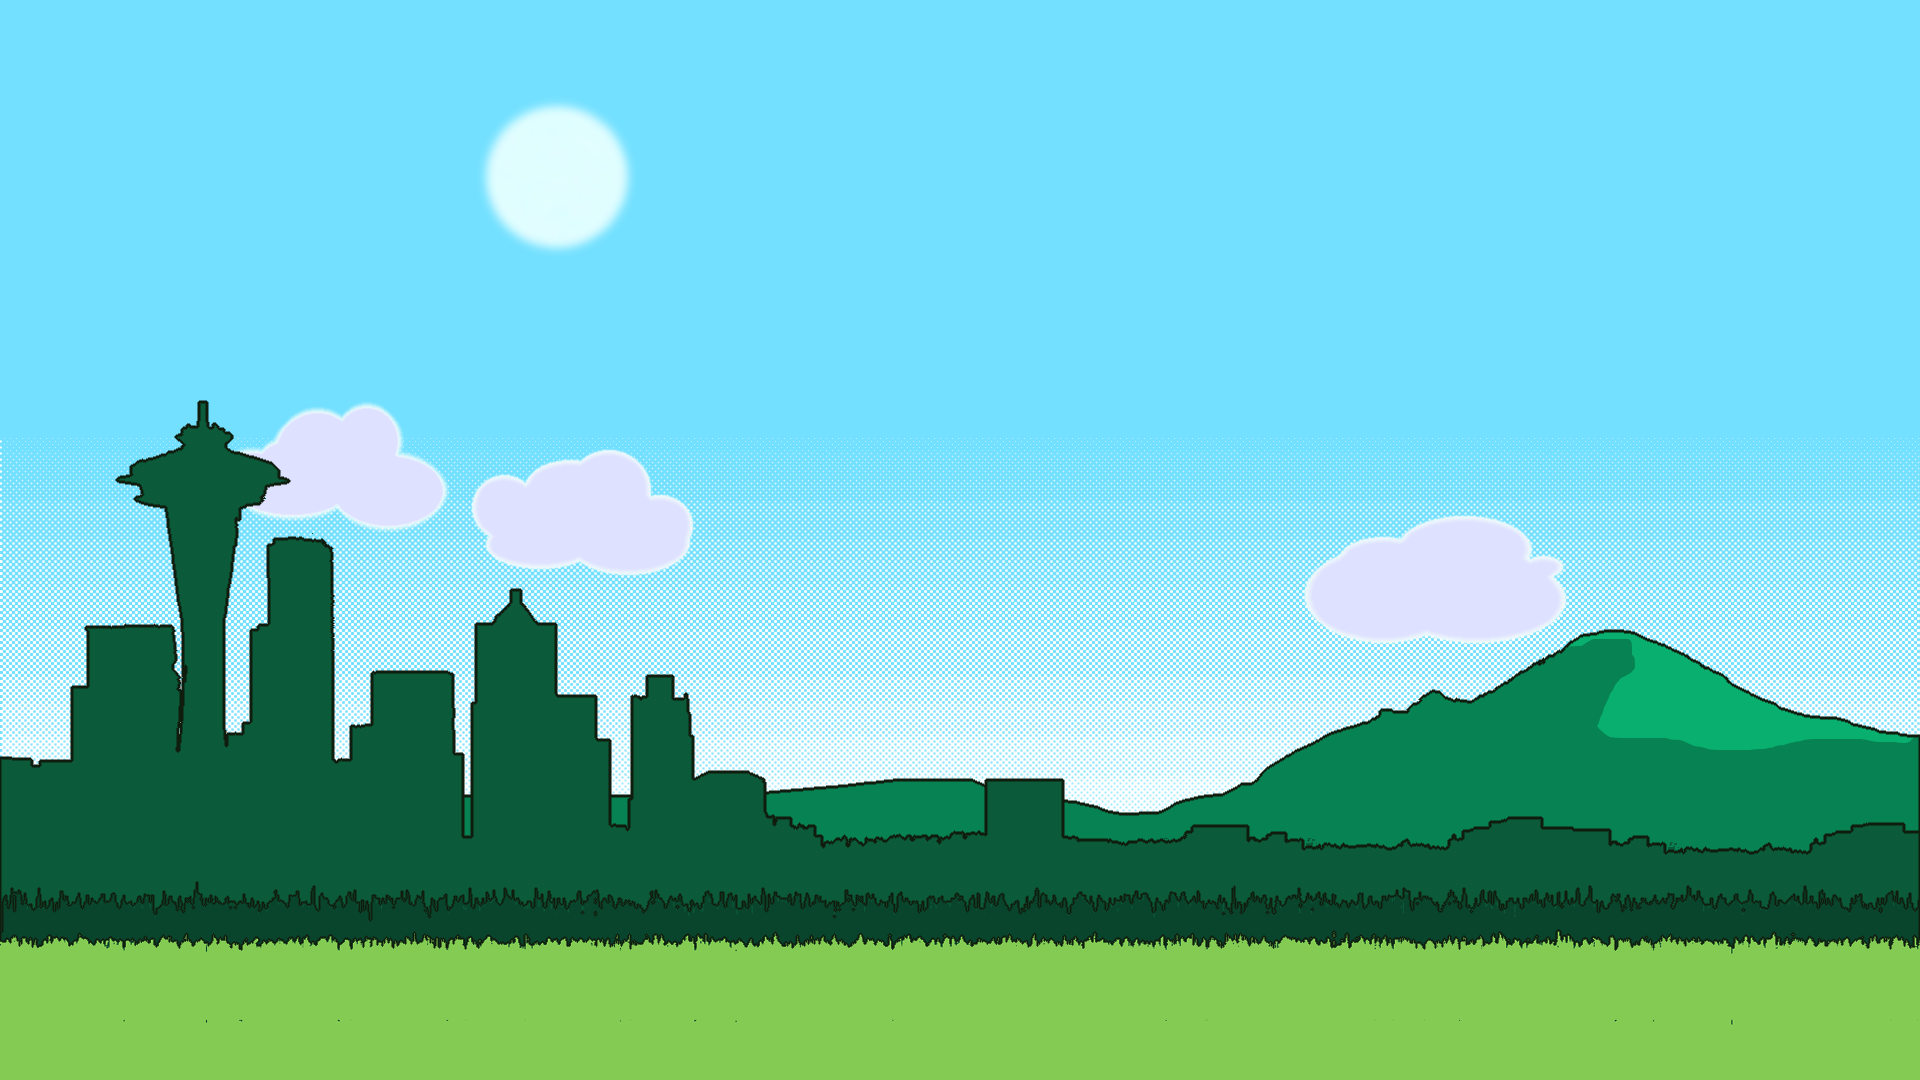
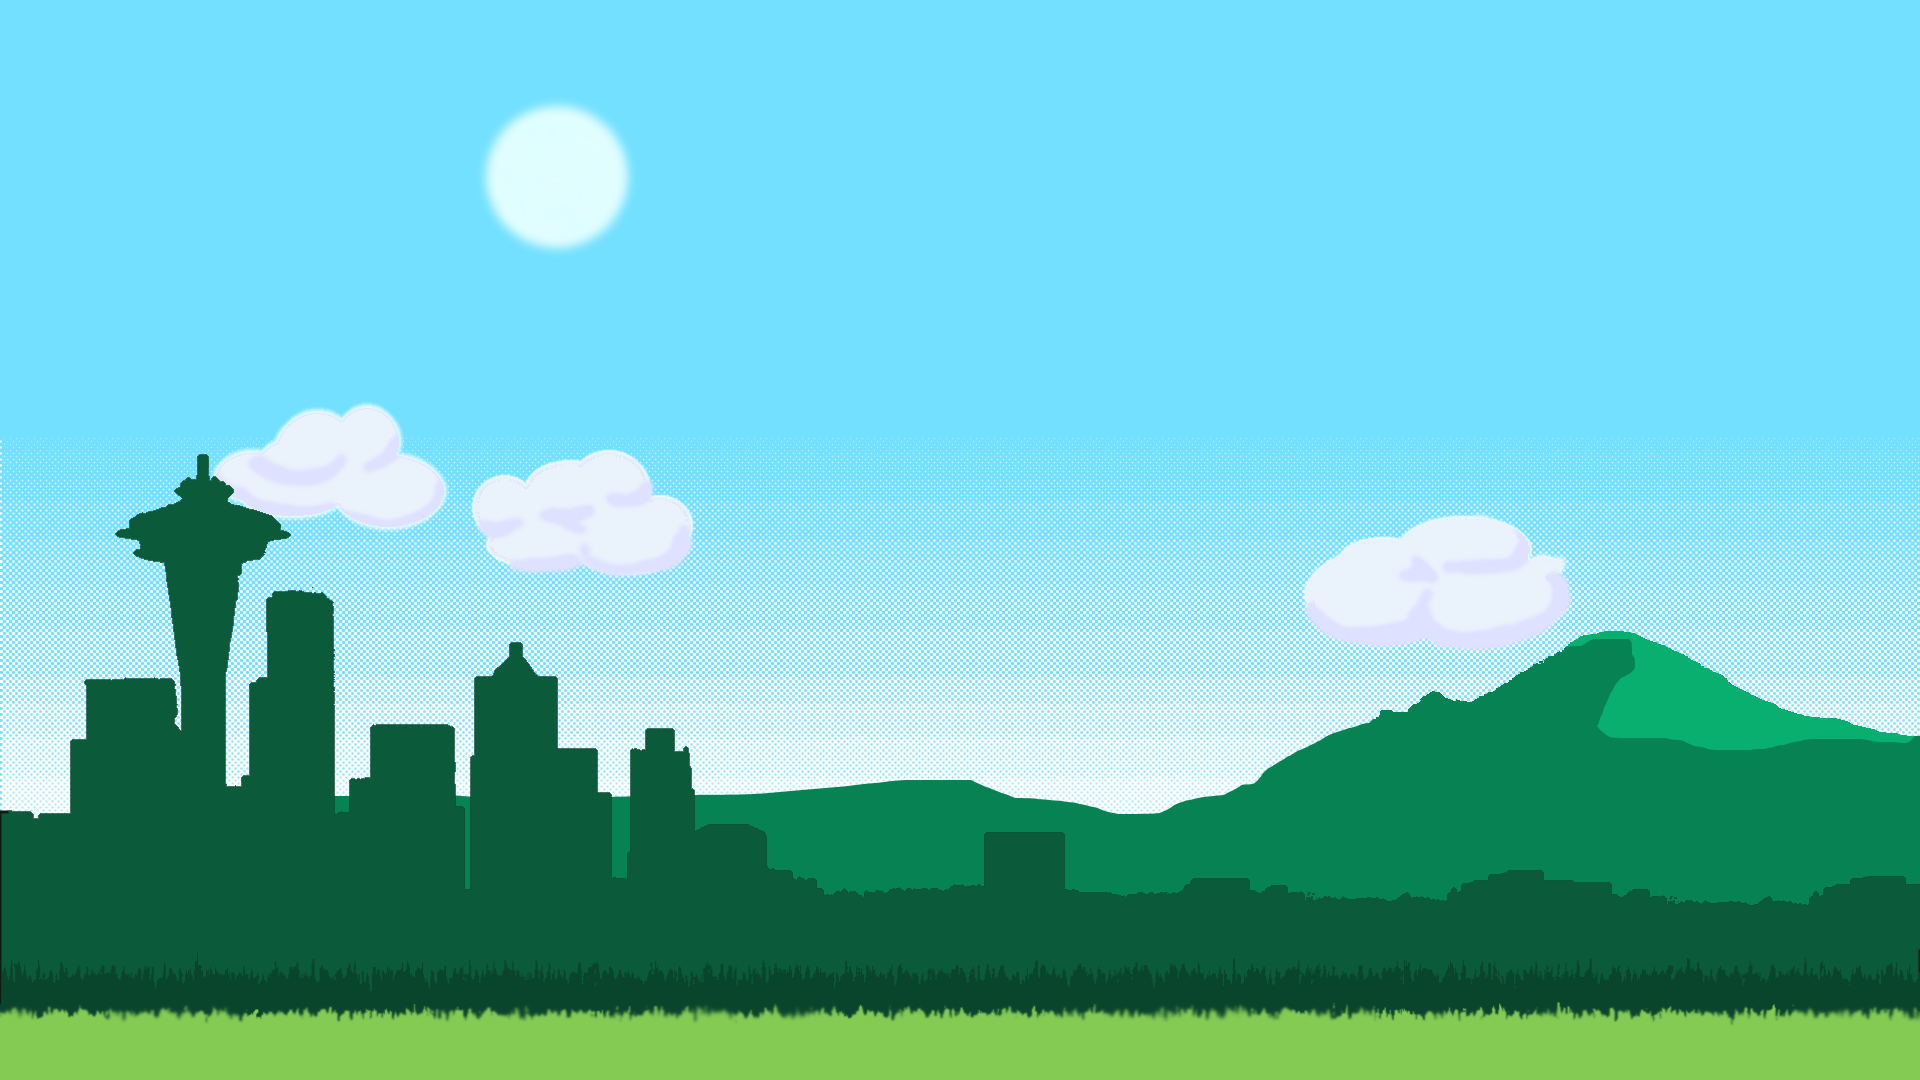
updated wallpaper and login

diff --git a/css/login.css b/css/login.css
@@ -10,7 +10,7 @@ body{
 }
 
 html {
-     background: url("../images/cockpit.jpg") no-repeat center center fixed;
+     background: url("../images/8bitseattle.png") no-repeat center center fixed;
    -webkit-background-size: cover;
   -moz-background-size: cover;
   -o-background-size: cover;
